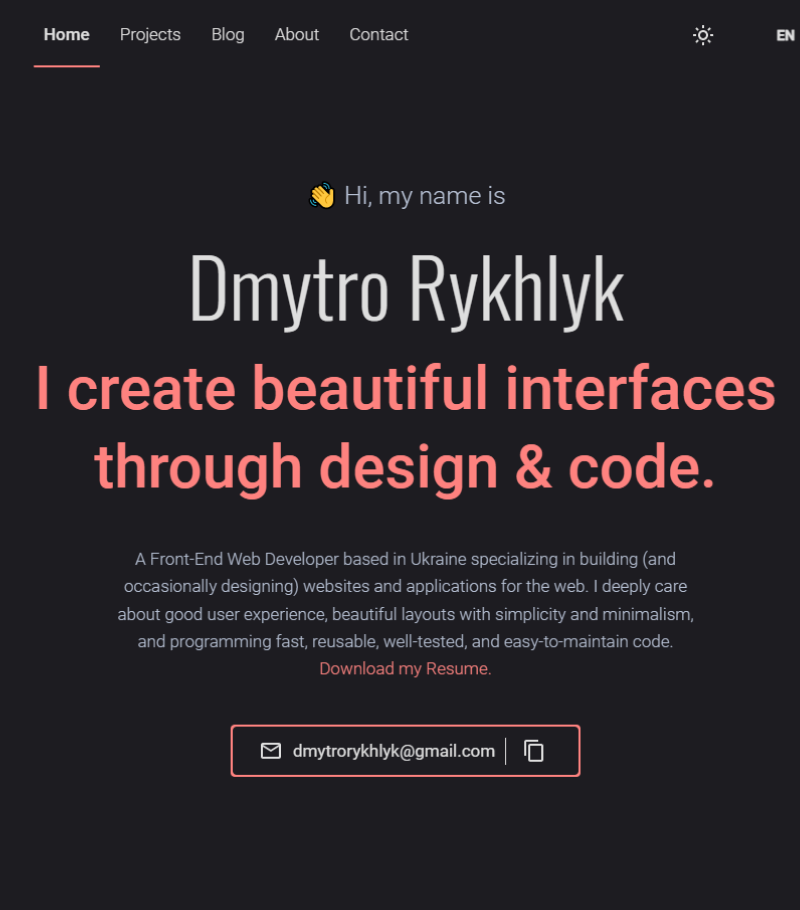
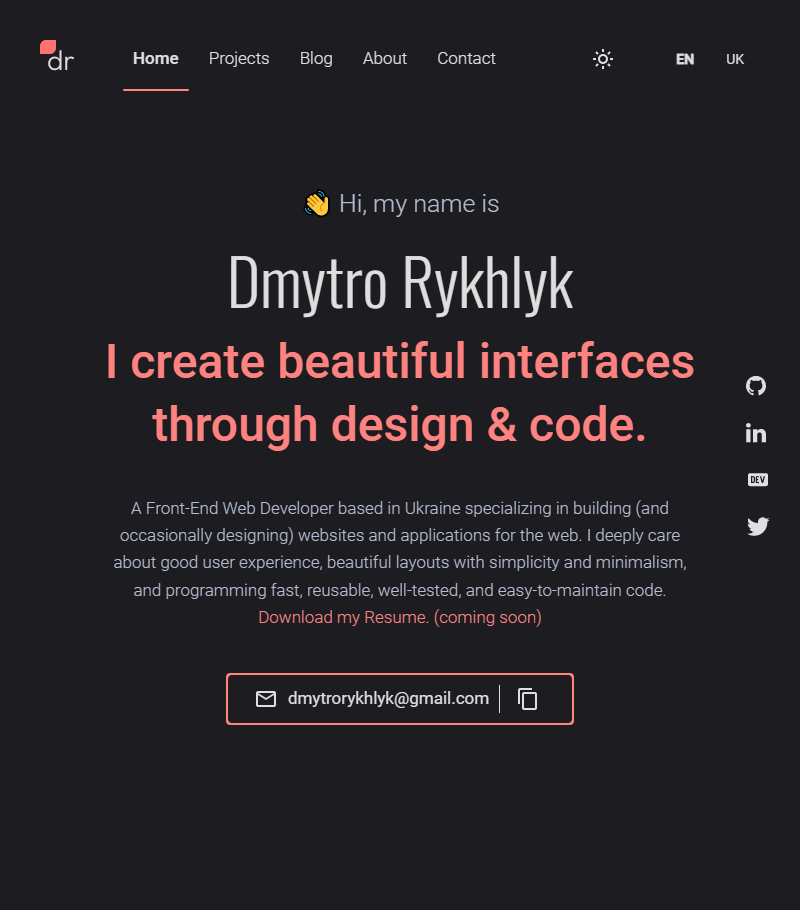
refactor: update project images & md

diff --git a/content/about/about.uk.md b/content/about/about.uk.md
@@ -4,7 +4,7 @@
 
 Я завжди намагаюся рости та вчитися чомусь новому. Я втрачаю відчуття часу, коли вивчаю мови, читаю книжку та створюю музику.
 
-[Завантижити моє резюме.](/resume.uk.pdf)
+[Завантижити моє резюме. (незабаром буде доступне)](/resume.uk.pdf)
 
 Ось кілька технологій, з якими я нещодавно працював:
 

diff --git a/content/projects/real-time-chat-vue-firebase.en.md b/content/projects/real-time-chat-vue-firebase.en.md
@@ -1,11 +1,11 @@
 ---
 isFeatured: false
 showInProjects: true
-date: '01.12.2021'
+date: '01.01.2022'
 featuredImage: null
-coverImage: ./assets/express-auth-app.jpg
-title: 'Real-time Chat Vue Firebase'
-about: 'Simple auth app using JSON Web Tokens with Express.js as backend'
+coverImage: ./assets/real-time-chat-vue-firebase-project.png
+title: 'labs | Real-time Chat Vue Firebase'
+about: 'Simple auth app using JSON Web Tokens with Express.js as a backend'
 technologies:
   - Vue.js
   - Firebase

diff --git a/content/projects/journey-log.en.md b/content/projects/journey-log.en.md
@@ -1,11 +1,11 @@
 ---
 isFeatured: true
 showInProjects: false
-date: '01.05.2021'
+date: '12.01.2021'
 featuredImage: ./assets/journey-log-featured.png
 coverImage: ./assets/journey-log-project.png
 title: 'Journey Log'
-about: 'A Full-stack app using React & Express for writing notes on the map about places you've visited'
+about: "A Full-stack app using React & Express for writing notes on the map about places you've visited."
 technologies:
   - React
   - Express

diff --git a/content/about/about.en.md b/content/about/about.en.md
@@ -4,7 +4,7 @@ My goal is to always build things that provide user-focused interfaces and good 
 
 I'm always trying to grow and learn something new. I lose track of time when I'm studying languages, reading a book, and producing music.
 
-[Download my Resume.](/resume.en.pdf)
+[Download my Resume. (coming soon)](/resume.en.pdf)
 
 Here are a few technologies I've been working with recently:
 

diff --git a/content/projects/express-auth-app.en.md b/content/projects/express-auth-app.en.md
@@ -1,10 +1,10 @@
 ---
 isFeatured: false
 showInProjects: true
-date: '01.01.2021'
+date: '02.01.2021'
 featuredImage: null
-coverImage: ./assets/express-auth-app.jpg
-title: 'Express Auth App'
+coverImage: ./assets/express-auth-app-project.png
+title: 'labs | Express Auth App'
 about: 'Simple auth app using JSON Web Tokens with Express.js as backend'
 technologies:
   - Express

diff --git a/content/projects/node-mini-blog.en.md b/content/projects/node-mini-blog.en.md
@@ -1,10 +1,10 @@
 ---
 isFeatured: false
 showInProjects: true
-date: '17.01.2021'
+date: '01.01.2021'
 featuredImage: null
-coverImage: ./assets/node-mini-blog.jpg
-title: 'Node Mini Blog'
+coverImage: ./assets/node-mini-blog-project.png
+title: 'labs | Node Mini Blog'
 about: 'Simple blog using Express where you can store your posts.'
 technologies:
   - Express

diff --git a/content/projects/portfolio.en.md b/content/projects/portfolio.en.md
@@ -1,9 +1,9 @@
 ---
 isFeatured: true
 showInProjects: false
-date: '01.02.2021'
+date: '11.01.2021'
 featuredImage: ./assets/portfolio-featured.png
-coverImage: ./assets/notes-kepper.png
+coverImage: ./assets/portfolio-project.png
 title: 'Portfolio'
 about: 'My personal website built with Gatsby and hosted on Netlify'
 technologies:

diff --git a/content/projects/ghprofile-summary.en.md b/content/projects/ghprofile-summary.en.md
@@ -1,7 +1,7 @@
 ---
 isFeatured: true
 showInProjects: false
-date: '01.01.2022'
+date: '02.01.2022'
 featuredImage: ./assets/ghprofile-summary-featured.png
 coverImage: ./assets/ghprofile-summary-project.png
 title: 'GitHub Profile Summary'
